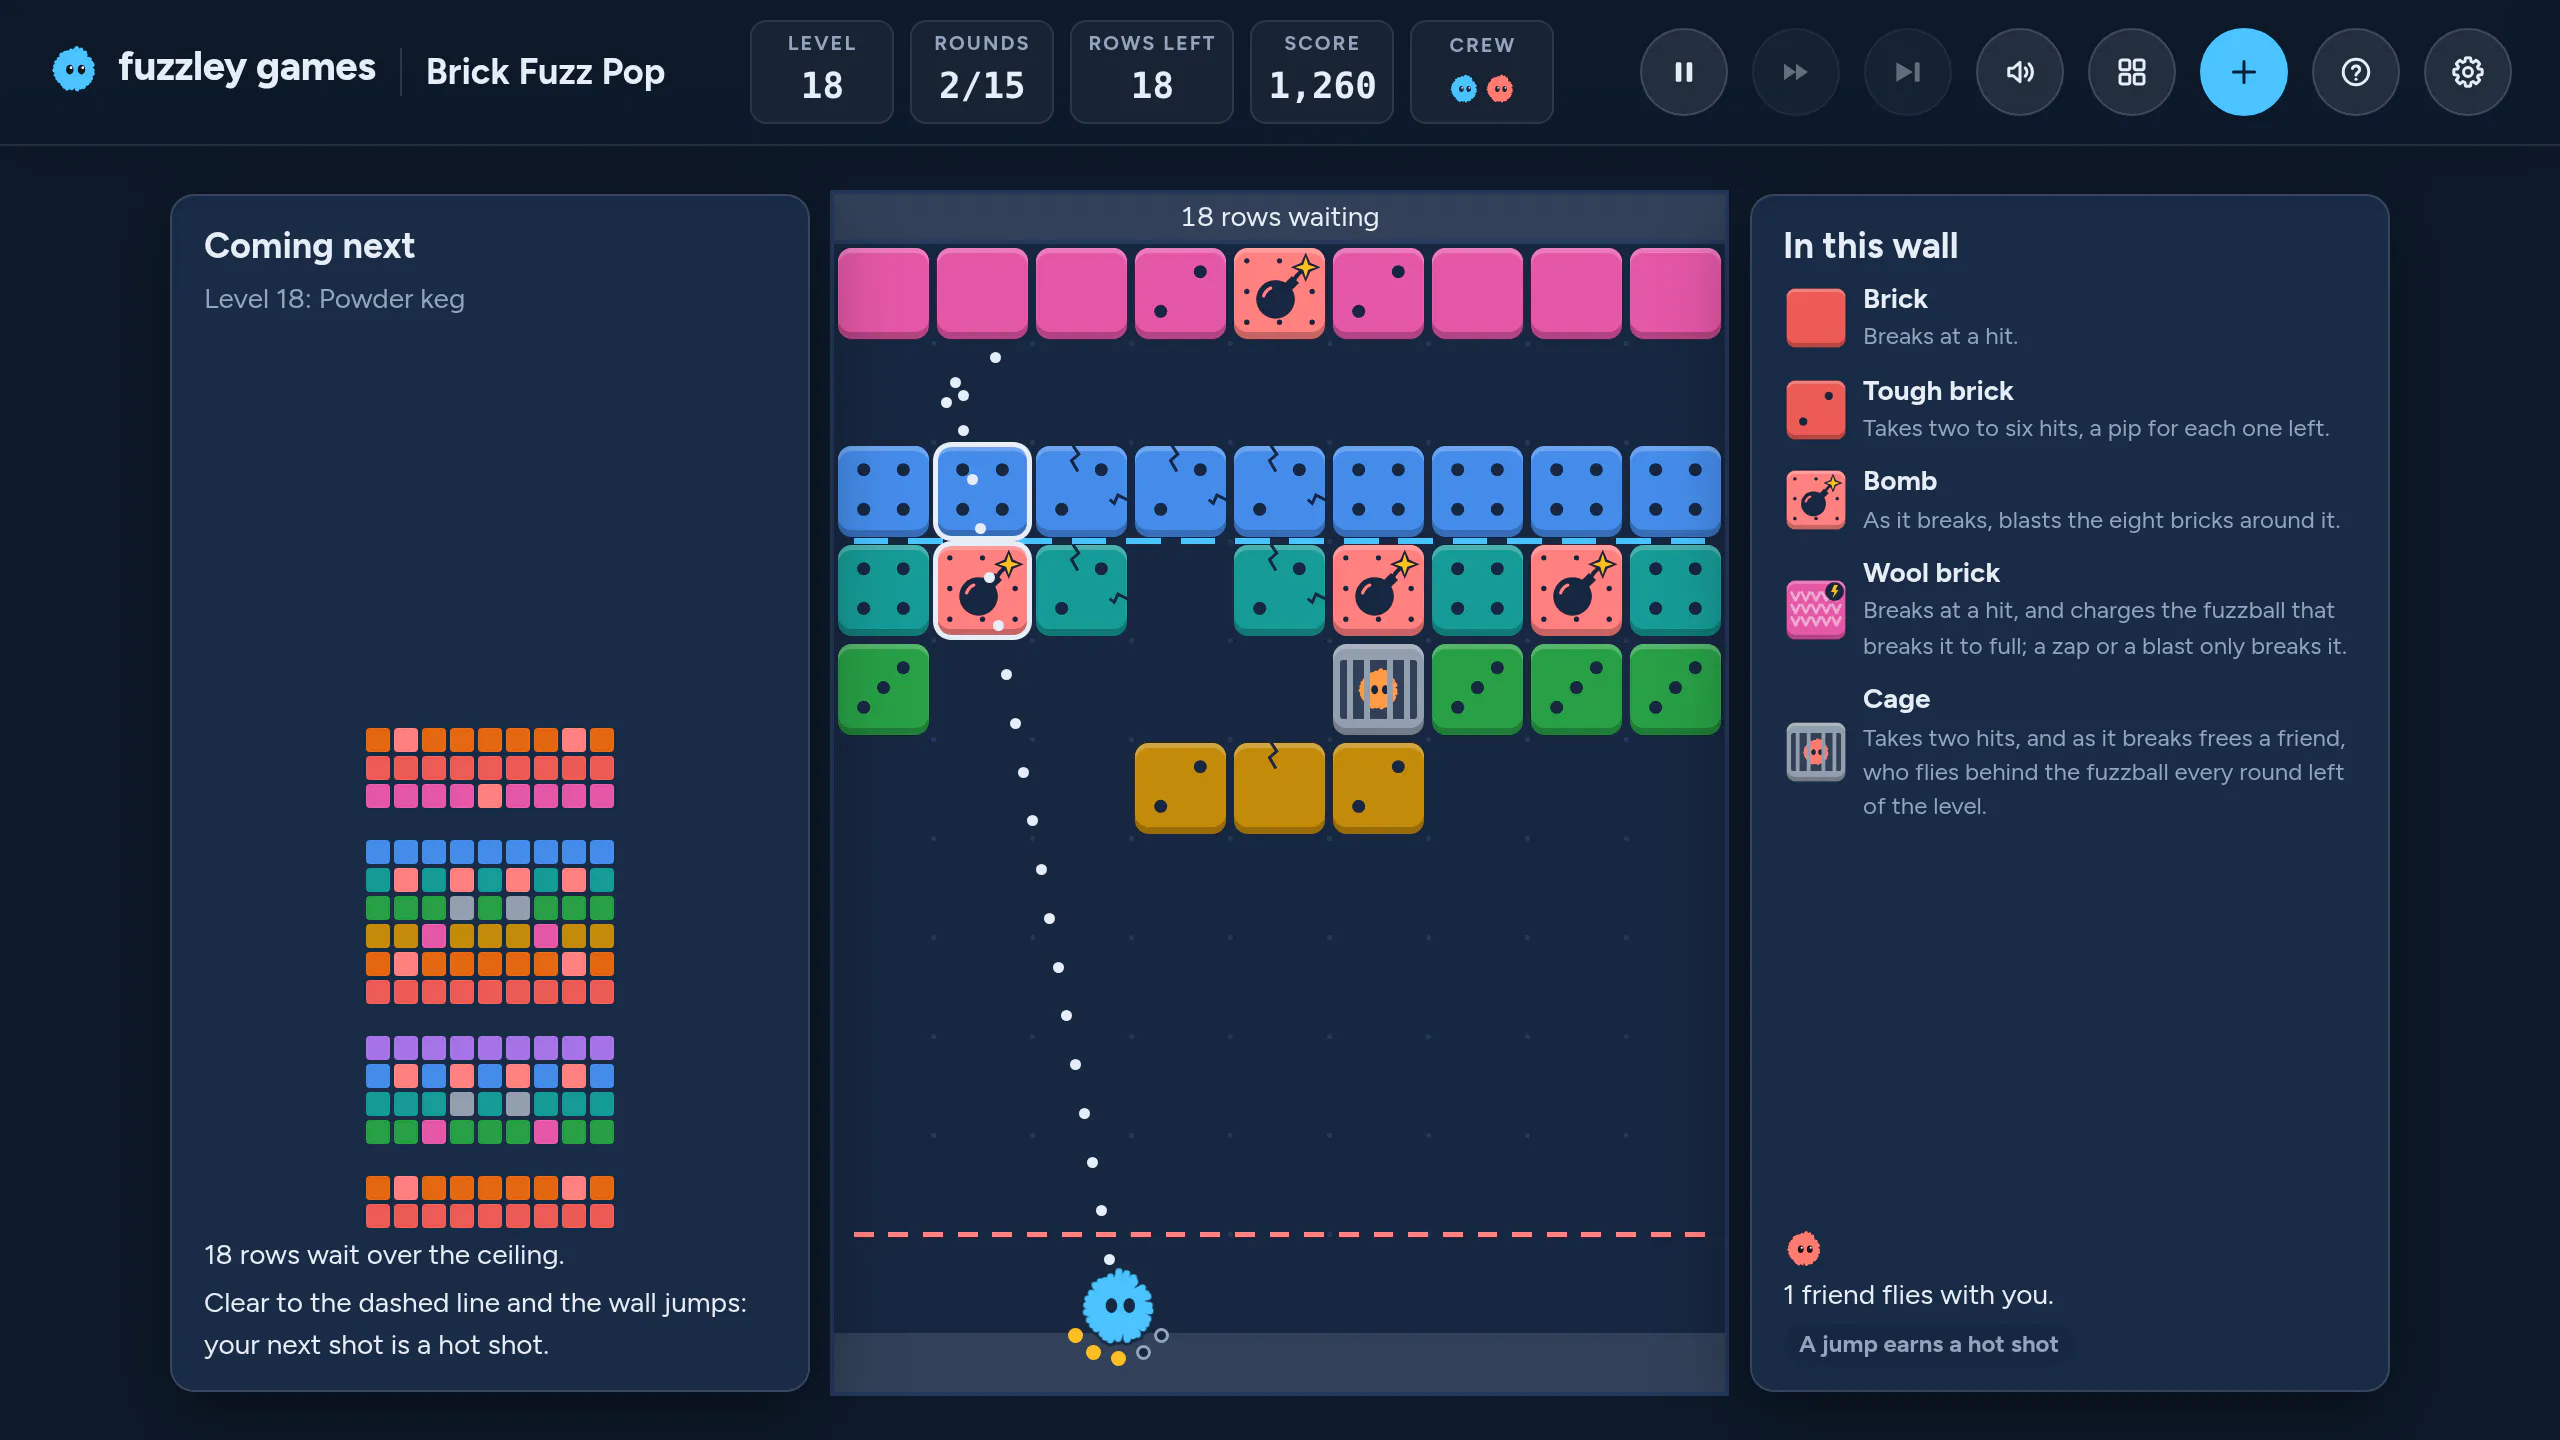
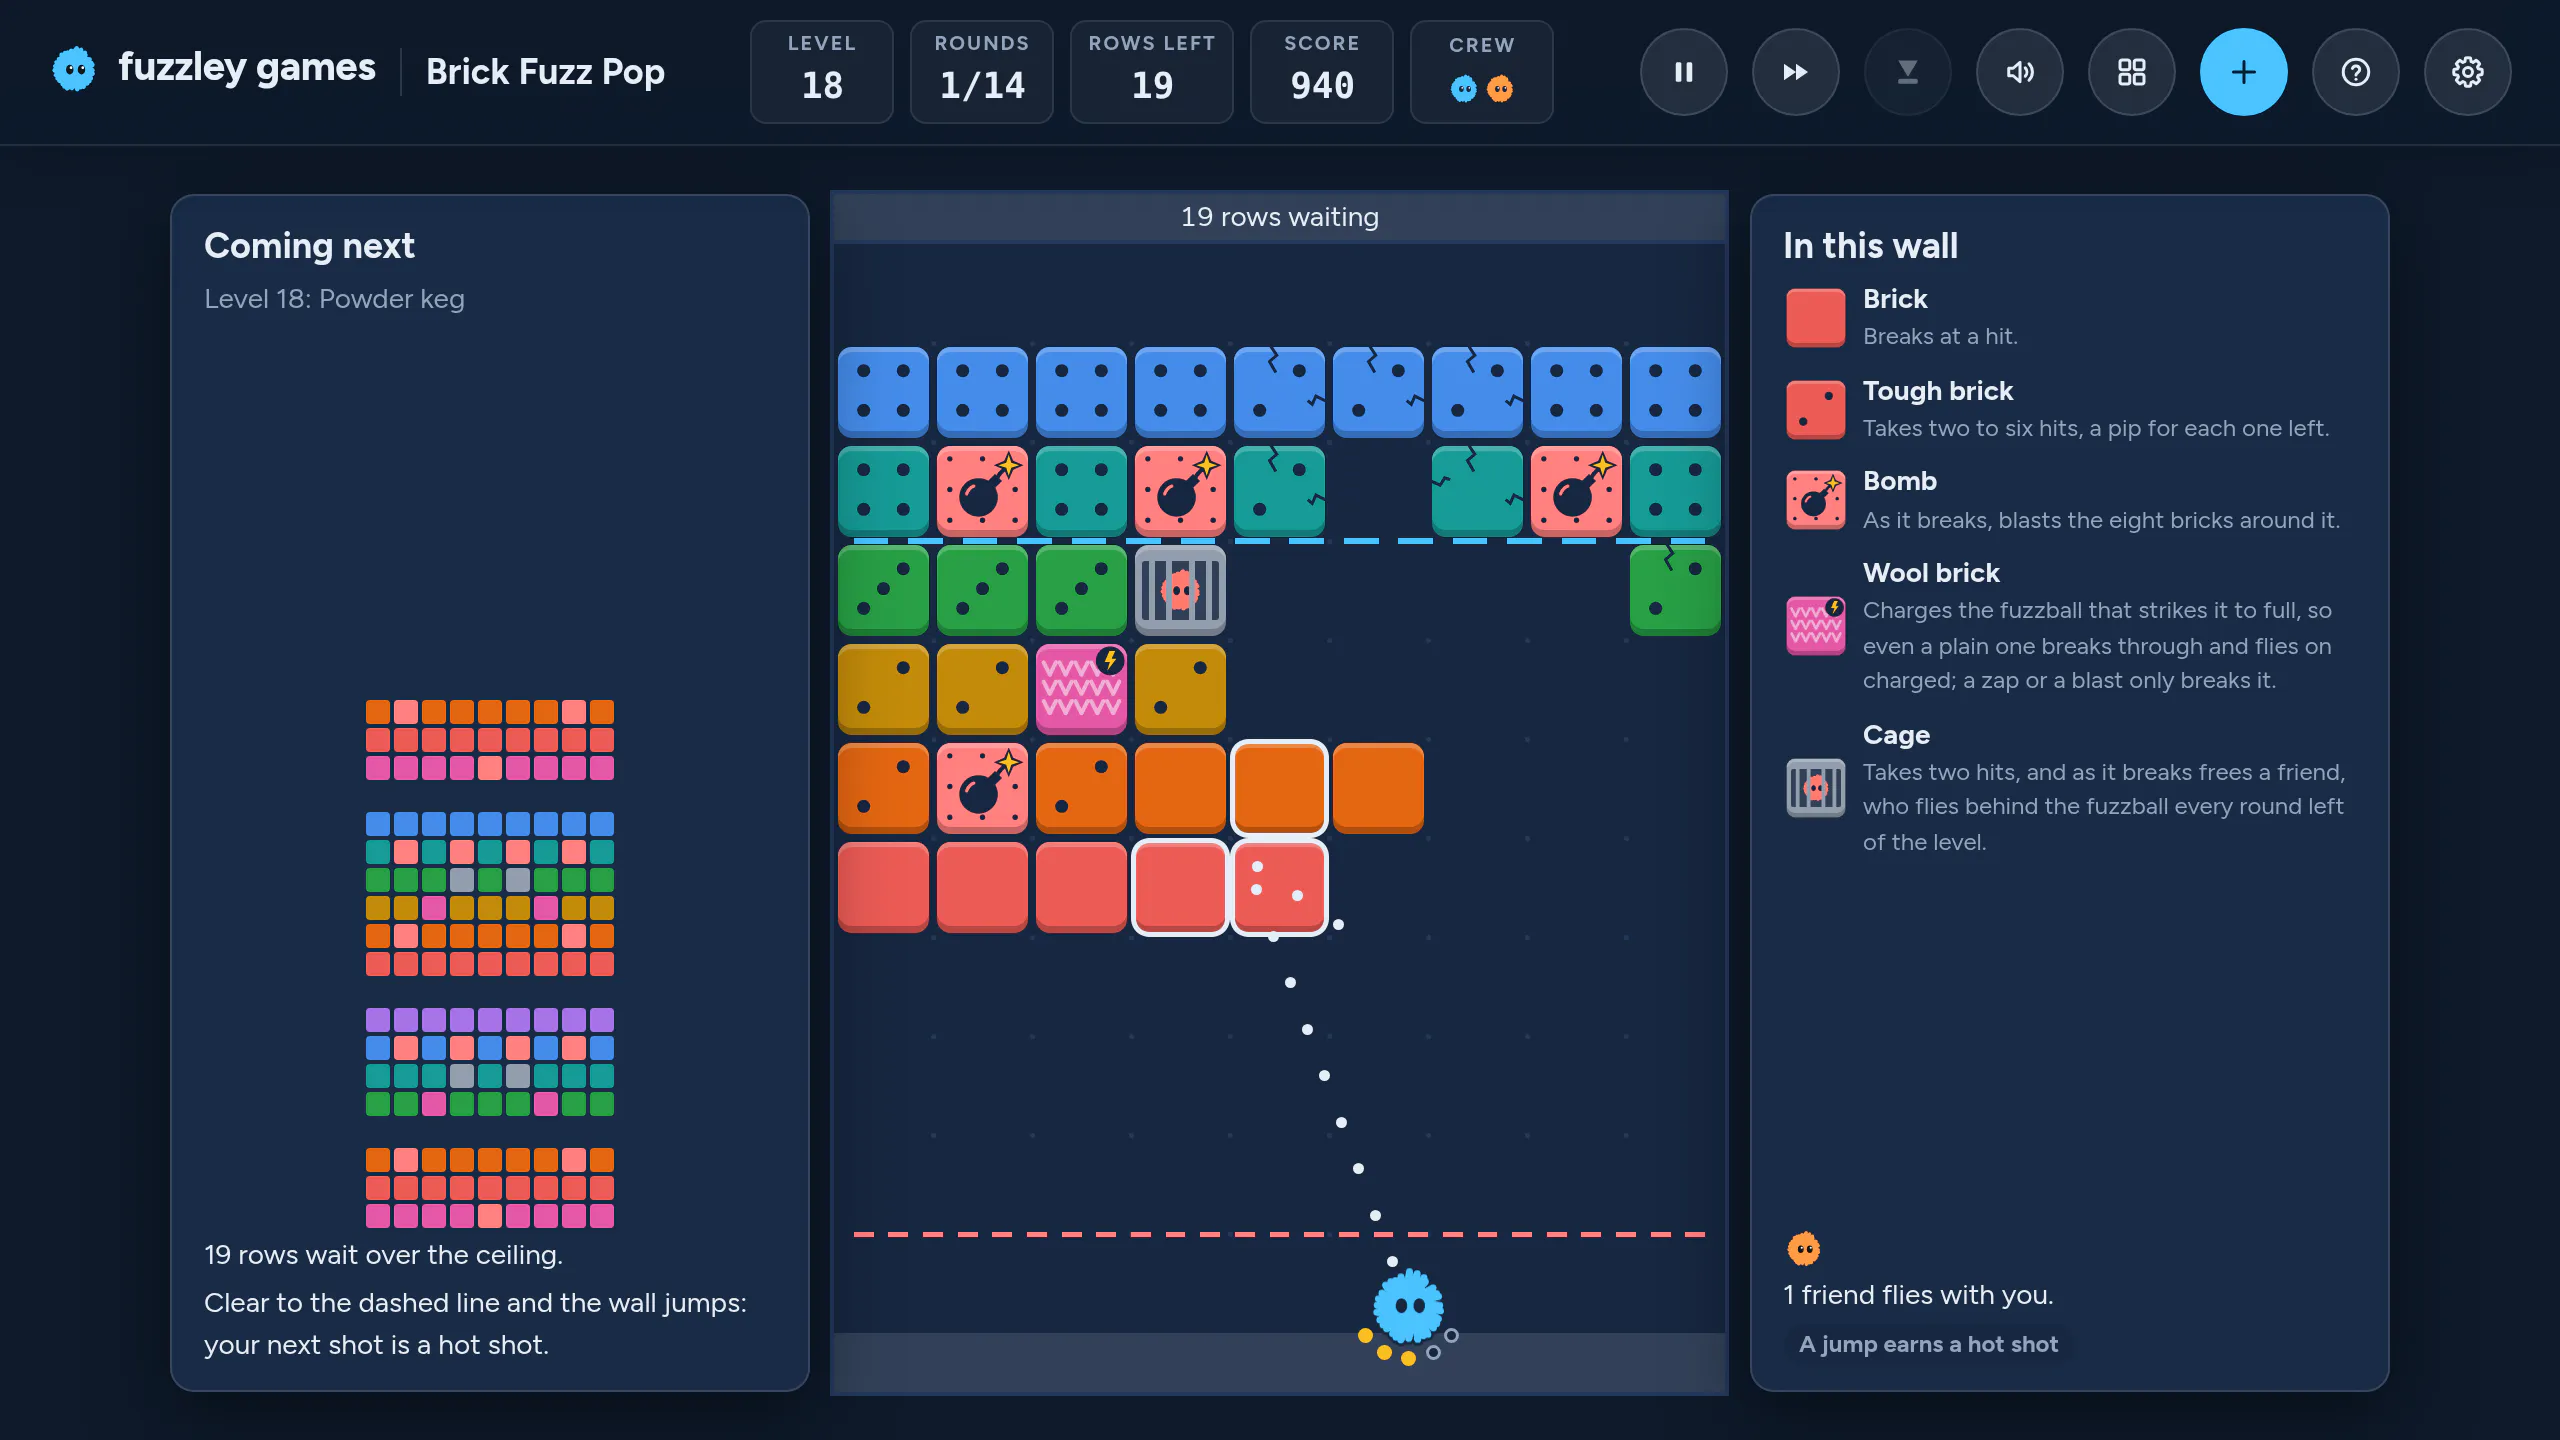
feat(brick-fuzz-pop): the site's screenshots retaken on the tuned game, a round into Powder keg so the wall still shows every kind it holds
The tune-up's rules clear level 18 faster: on a field 11 deep, the first
two shots of its new certificate leave a nearly empty wall, which made a
thin preview of the game. So the screenshots' RUN now plays only the first
shot of the line (and its spec holds it to that), leaving tough bricks,
bombs, wool and a caged friend standing; the next shot is aimed at 110
degrees and a charge of 3, as R1 chose, its guide running up into the wall
and outlining three bricks it would punch through. The pictures show the
new bar, Fast-forward live and Drop dimmed while aiming, and wool's new
words. The plans' "the first two shots" (plan.md's Assets,
implementation-plan.md's R1) is recorded as changed in the As built.

Review:
1. index.html's og:image:alt still described the old picture's aim "up
   through a gap into a bomb": taken, rewritten for the new one.
2. The testing skill said RUN "takes the new shots": taken, it fails only
   on a new first shot, and says so.
3. A doc line in capture-screenshots.mjs ran past the wrap: taken.
4. The plans still say two shots: recorded in the As built, the plan.md
   design left as written.
5. Optional: the guide's turn lands on a plain brick that reads as tough at
   thumbnail size: declined, the picture reads well and the outlines say
   what the shot would do.

diff --git a/frontend/games/brick-fuzz-pop/tools/capture-screenshots.spec.ts b/frontend/games/brick-fuzz-pop/tools/capture-screenshots.spec.ts
@@ -74,7 +74,7 @@ describe("run", () => {
 });
 
 describe("shownRun", () => {
-  it("stamps the run kept with the version the shell takes it up under, paused two rounds into its level", async () => {
+  it("stamps the run kept with the version the shell takes it up under, paused a round into its level", async () => {
     const shown = shownRun(await loadScreenshotApi());
 
     const stored = JSON.parse(shown.stored) as Record<string, unknown>;
@@ -87,7 +87,7 @@ describe("shownRun", () => {
     }).toEqual({
       version: SAVED_GAME_VERSION,
       level: RUN.level,
-      rounds: 2,
+      rounds: 1,
       outcome: "paused",
     });
   });
@@ -127,9 +127,9 @@ describe("aimingKeys", () => {
 });
 
 describe("RUN", () => {
-  it("plays the first two shots of its level's certificate on its depth", () => {
+  it("plays the first shot of its level's certificate on its depth", () => {
     const line = certificateOf(levelEntryOf(LEVELS, RUN.level), RUN.depth);
 
-    expect(RUN.shots).toEqual(line?.slice(0, 2));
+    expect(RUN.shots).toEqual(line?.slice(0, 1));
   });
 });

diff --git a/frontend/games/brick-fuzz-pop/index.html b/frontend/games/brick-fuzz-pop/index.html
@@ -32,7 +32,7 @@
     <meta property="og:image:height" content="1440" />
     <meta
       property="og:image:alt"
-      content="A game of Brick Fuzz Pop on level 18, Powder keg: rows of tough bricks, bombs and a caged friend, the fuzzball's dotted aim line running up through a gap into a bomb."
+      content="A game of Brick Fuzz Pop on level 18, Powder keg: rows of tough bricks, bombs, a wool brick and a caged friend, the fuzzball's dotted aim line running up into the wall, three bricks outlined where it would punch through."
     />
     <meta name="twitter:card" content="summary_large_image" />
     <script type="application/ld+json">

diff --git a/frontend/games/brick-fuzz-pop/AGENTS.md b/frontend/games/brick-fuzz-pop/AGENTS.md
@@ -709,14 +709,14 @@ Run these from `frontend/games/brick-fuzz-pop/`, or as
   by the rules (`keptRun()`, in `src/testing/kept_run.ts`, which it loads
   through `src/testing/screenshot_api.ts`'s `SCREENSHOT_API`, with the
   version the shell keeps it under), begun on level 18, Powder keg, on a
-  field 11 deep and played two rounds in by the first two shots of its
-  certificate there, taken up and gone on with, the next shot aimed by the
-  arrow keys up through a bomb, at 110 degrees and a charge of 3, which it
-  waits to hear the game say, at 1280 × 720 and 2× on Midnight blue, written
-  to `public/docs/screenshots/brick-fuzz-pop/` as the site's `preview.webp`
-  (2560 × 1440), which `index.html` names as the link preview, and
-  `thumb.webp` (576 × 324), cropped around the field; `--url` points it at
-  another server than `http://localhost:9006/`).
+  field 11 deep and played a round in by the first shot of its certificate
+  there, taken up and gone on with, the next shot aimed by the arrow keys
+  up into the wall, through three bricks, at 110 degrees and a charge of 3,
+  which it waits to hear the game say, at 1280 × 720 and 2× on Midnight
+  blue, written to `public/docs/screenshots/brick-fuzz-pop/` as the site's
+  `preview.webp` (2560 × 1440), which `index.html` names as the link
+  preview, and `thumb.webp` (576 × 324), cropped around the field; `--url`
+  points it at another server than `http://localhost:9006/`).
 - **Write the Aims:** `yarn build:aims` (writes `src/rules/aims.ts`, each
   aim's heading as two numbers, from `tools/build-aims.mjs`;
   `src/rules/aims.spec.ts` fails while the file isn't what the script

diff --git a/frontend/games/brick-fuzz-pop/.agents/skills/brick-fuzz-pop-testing/SKILL.md b/frontend/games/brick-fuzz-pop/.agents/skills/brick-fuzz-pop-testing/SKILL.md
@@ -200,9 +200,9 @@ Run these from `frontend/games/brick-fuzz-pop/`, or as
   the layout check hand a page to take up, loading it through
   `SCREENSHOT_API` and storing it with `tools/stored_run.mjs`.
   `tools/capture-screenshots.spec.ts` holds the screenshots' `RUN` to the
-  first two shots of its level's line on its depth, so a line certified
-  anew there fails it until `RUN` takes the new shots and the screenshots
-  are captured again.
+  first shot of its level's line on its depth, so a line certified anew
+  there with another first shot fails it until `RUN` takes that shot and
+  the screenshots are captured again.
 - In a development build, and at `?debug` in a production one, the debug
   menu's Play the certificate plays the level in play's line on the
   field's depth (`CertificatesService`), and the menu says when retuned
